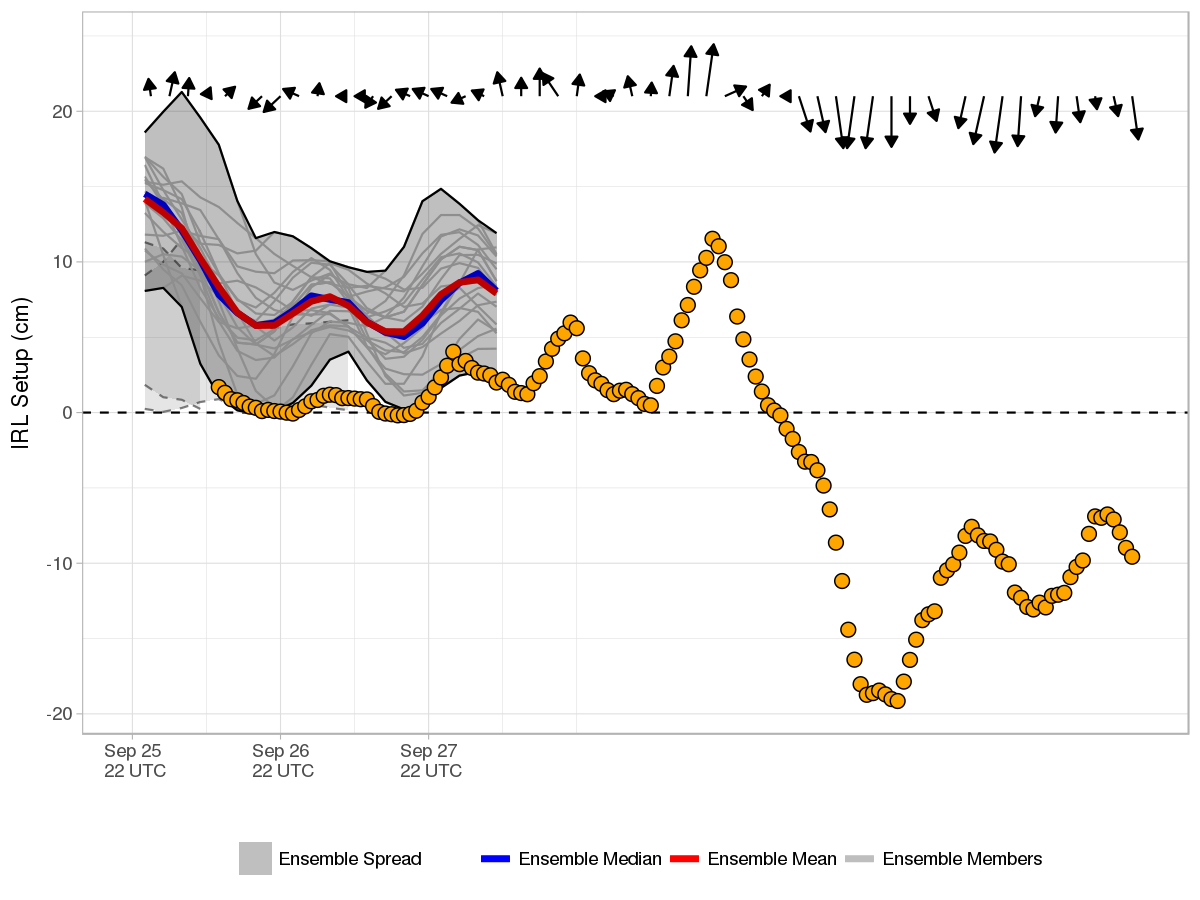
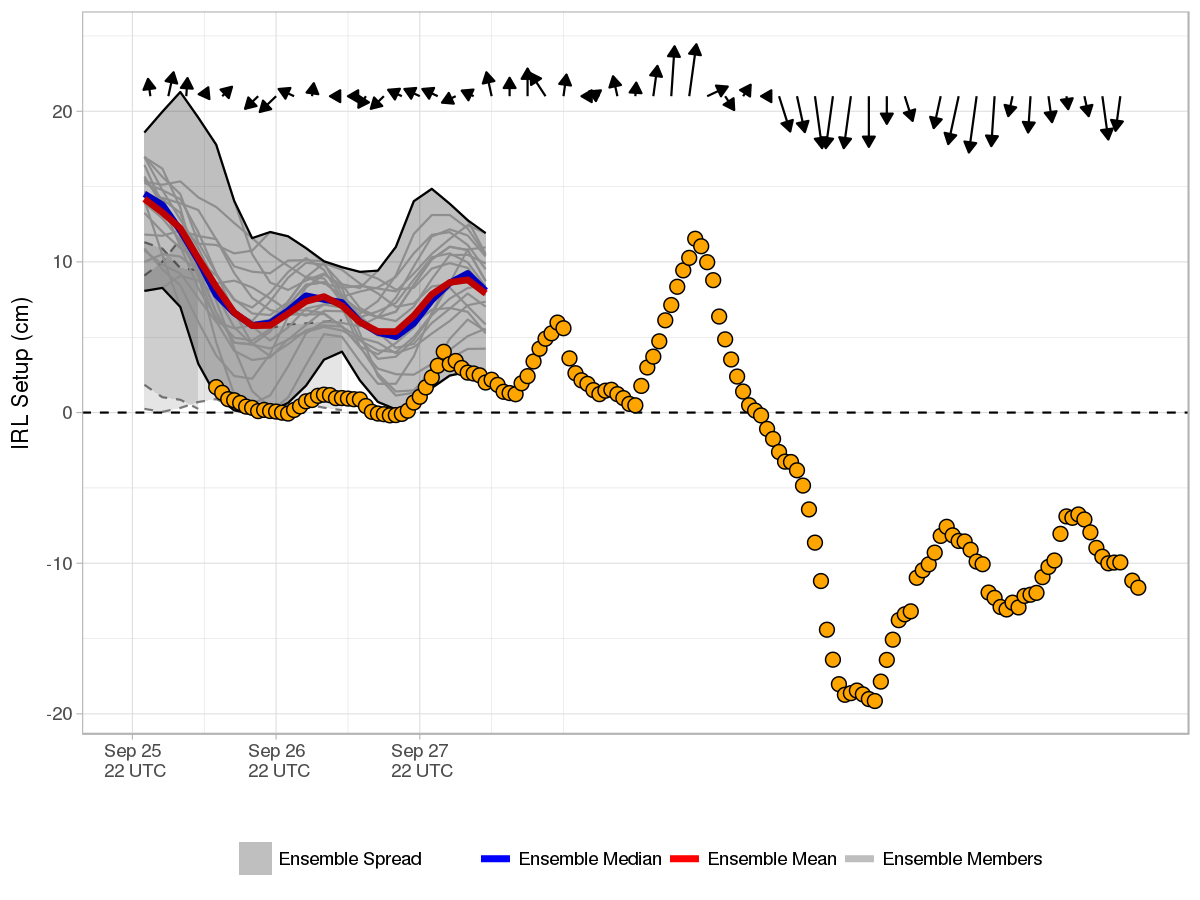
Forecast Update 2020100218

diff --git a/docs/index.md b/docs/index.md
@@ -1,9 +1,9 @@
-Current Forecast 2020-10-02 12Z
+Current Forecast 2020-10-02 18Z
 -----------------------------------
 
 [![](img/raw_setup.png)](https://fit-winds.github.io/IRLSetup/img/raw_setup.png)
 
-> Forecast valid 2020-10-02 13:02:54.
+> Forecast valid 2020-10-02 19:03:02.
 
 Explanation
 -----------
